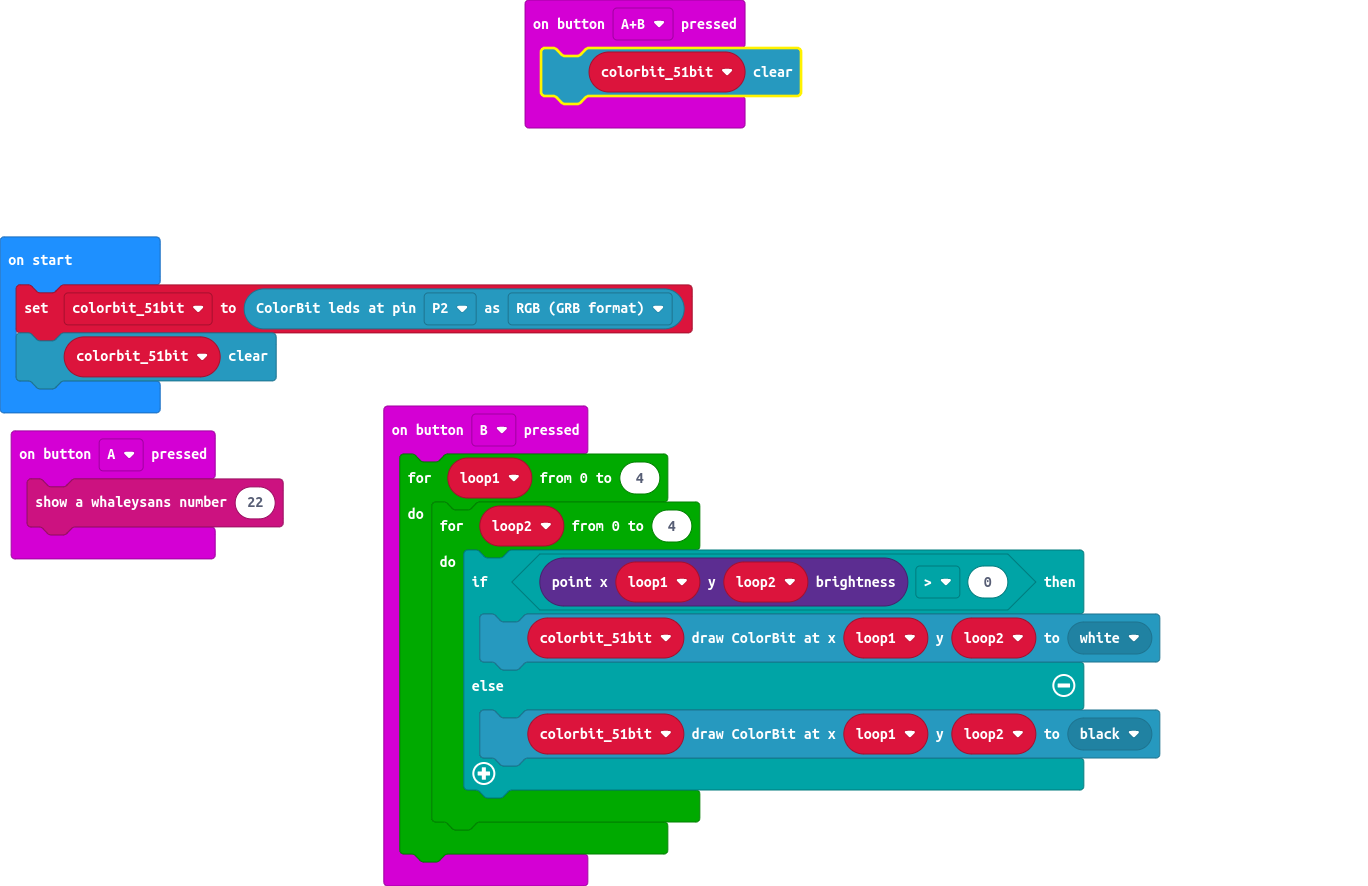
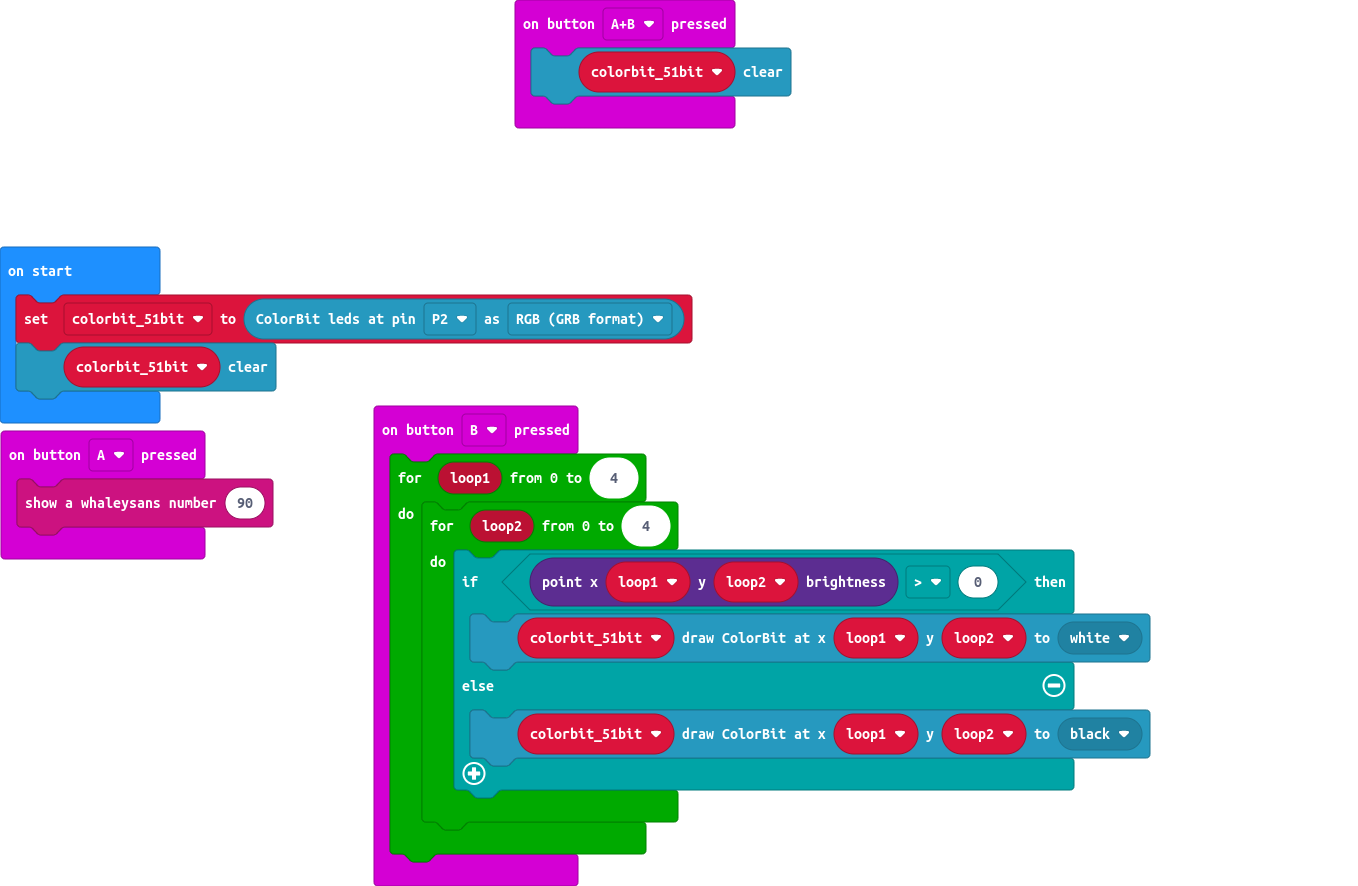
removed proportional font extension

diff --git a/main.ts b/main.ts
@@ -1,5 +1,5 @@
 input.onButtonPressed(Button.A, function () {
-    whaleysans.showNumber(22)
+    whaleysans.showNumber(90)
 })
 input.onButtonPressed(Button.AB, function () {
     colorbit_51bit.clear()

diff --git a/main.py b/main.py
@@ -1,12 +1,20 @@
 def on_button_pressed_a():
-    whaleysans.show_number(19)
+    whaleysans.show_number(90)
 input.on_button_pressed(Button.A, on_button_pressed_a)
 
+def on_button_pressed_ab():
+    colorbit_51bit.clear()
+input.on_button_pressed(Button.AB, on_button_pressed_ab)
+
 def on_button_pressed_b():
-    for index in range(5):
-        for Index1 in range(5):
-            colorbit_51bit.draw_color_bit(0, 0, colorbit.colors(BitColors.RED))
+    for loop1 in range(5):
+        for loop2 in range(5):
+            if led.point_brightness(loop1, loop2) > 0:
+                colorbit_51bit.draw_color_bit(loop1, loop2, colorbit.colors(BitColors.WHITE))
+            else:
+                colorbit_51bit.draw_color_bit(loop1, loop2, colorbit.colors(BitColors.BLACK))
 input.on_button_pressed(Button.B, on_button_pressed_b)
 
 colorbit_51bit: colorbit.Strip = None
 colorbit_51bit = colorbit.init_color_bit(DigitalPin.P2, BitColorMode.RGB)
+colorbit_51bit.clear()
